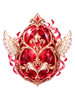
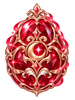
fix(client): align costume 2 gacha egg artwork

diff --git a/tools/patcher/patch_status.js b/tools/patcher/patch_status.js
@@ -1,7 +1,7 @@
 /* Generated by tools/patcher/make_patch.ps1 after plist.txt is updated.
    Loaded by the Launcher UI as a cross-origin script; keep this ES5. */
 window.MIDNIGHT_PATCH_STATUS = {
-    latestIndex: 114,
-    latestFile: '0114_20260916_gacha-eggs.thor',
-    updatedAt: '2026-09-16T11:30:32+07:00'
+    latestIndex: 115,
+    latestFile: '0115_20260916_costume-2-gacha-moon-size-fix.thor',
+    updatedAt: '2026-09-16T14:22:39+07:00'
 };

diff --git a/tools/client-patch/build_gacha_egg_assets.py b/tools/client-patch/build_gacha_egg_assets.py
@@ -54,12 +54,12 @@ def indexed_asset(art: Image.Image) -> Image.Image:
     quantized = rgb.quantize(colors=255, method=Image.Quantize.MEDIANCUT)
     indexed = Image.new("P", size)
     indexed.putpalette([255, 0, 255] + quantized.getpalette()[:255 * 3])
-    indexed.putdata([0 if opacity < 150 else color + 1 for color, opacity in zip(quantized.get_flattened_data(), canvas.getchannel("A").get_flattened_data())])
+    indexed.putdata([0 if opacity < 150 else color + 1 for color, opacity in zip(quantized.getdata(), canvas.getchannel("A").getdata())])
     return indexed
 
 
 def sprite(image: Image.Image) -> bytes:
-    raw, encoded, cursor = list(image.get_flattened_data()), bytearray(), 0
+    raw, encoded, cursor = list(image.getdata()), bytearray(), 0
     while cursor < len(raw):
         if raw[cursor]:
             encoded.append(raw[cursor]); cursor += 1; continue
@@ -116,10 +116,13 @@ def rebuild(target: Path, members: dict[bytes, bytes]) -> None:
 
 
 def main() -> None:
-    if not TARGET_GRF.exists() or not LOCAL_ENDPOINT_GRF.exists():
-        raise FileNotFoundError("missing midnight.grf or server_Local_endpoint.grf")
+    if not TARGET_GRF.exists():
+        raise FileNotFoundError("missing midnight.grf")
     added = files()
-    for target in (TARGET_GRF, LOCAL_ENDPOINT_GRF):
+    targets = [TARGET_GRF]
+    if LOCAL_ENDPOINT_GRF.exists():
+        targets.append(LOCAL_ENDPOINT_GRF)
+    for target in targets:
         current = Grf(target)
         try:
             members = {entry: current.read(entry) for entry in current.entries}
@@ -133,7 +136,8 @@ def main() -> None:
         if not backup.exists():
             shutil.copy2(target, backup)
         rebuild(target, members)
-    print("Installed all three Gacha Egg assets in midnight.grf and server_Local_endpoint.grf.")
+    installed = " and ".join(target.name for target in targets)
+    print(f"Installed all three Gacha Egg assets in {installed}.")
 
 
 if __name__ == "__main__":

diff --git a/CHANGELOG.md b/CHANGELOG.md
@@ -4,6 +4,19 @@
 
 ---
 
+## แพตช์ 0115 — 2026-09-16
+
+- **ไฟล์แพตช์:** `0115_20260916_costume-2-gacha-moon-size-fix.thor`
+- **ขนาด:** 23,281,754 bytes (22.20 MB)
[1 lines of base64/hex data omitted]
+- **ประเภทแพตช์:** Loose-file migration (`use_grf_merging: false`)
+- **รายการไฟล์:** `midnight.grf` จำนวน 1 entry
+- **รายละเอียด:** ปรับภาพ Costume 2 Gacha Egg ให้มีขนาดและทรงกะทัดรัดเท่ากับ Costume 1 และ Shadow Gacha Egg พร้อมเพิ่มพระจันทร์เสี้ยวเป็นองค์ประกอบกลาง และอัปเดต BMP inventory/collection กับ SPR ภายใน GRF
+- **ผลตรวจ:** THOR header และ checksum ผ่าน; ดาวน์โหลด THOR, `plist.txt` และ `patch_status.js` กลับจาก GitHub Release แล้ว SHA-256 ตรงกับ local ทุกไฟล์
+- **สถานะ:** ปล่อยแล้วบน GitHub Release `patches`
+
+---
+
 ## แพตช์ 0114 — 2026-09-16
 
 - **ไฟล์แพตช์:** `0114_20260916_gacha-eggs.thor`
